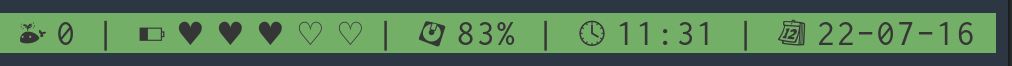
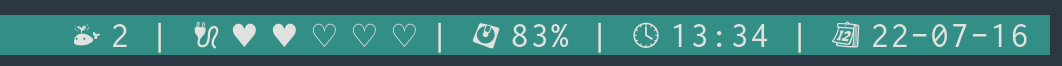
Updates readme with new images

diff --git a/README.md b/README.md
@@ -4,7 +4,9 @@ This is the repo where I keep my configuration files to have an awesome terminal
 
 ## .tmux.conf
 
-The only thing this file does is set a new prefix and adds a status monitor into the right.
+The only thing this file does is set a new prefix and adds a status monitor into the right and sets some colors.
+
+![Tmux conf](https://raw.githubusercontent.com/crisguitar/terminal-conf/master/images/tmux.png)
 
 ## status_monitor.sh
 
